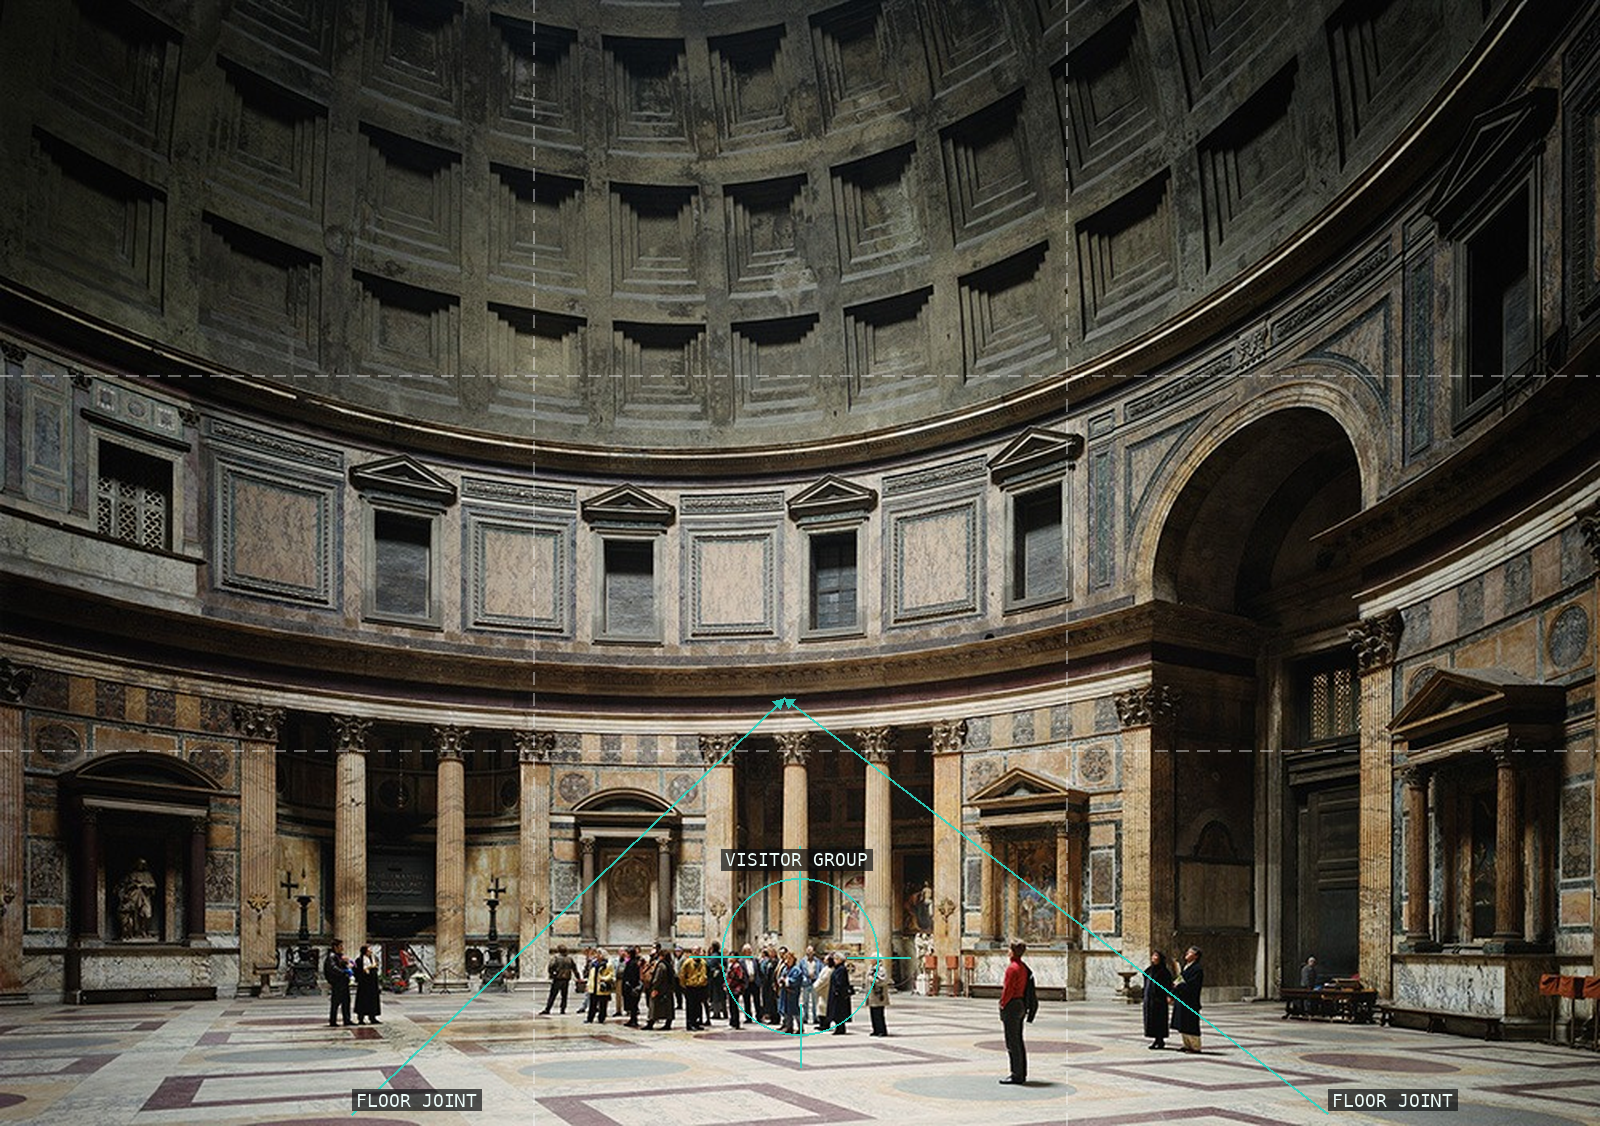
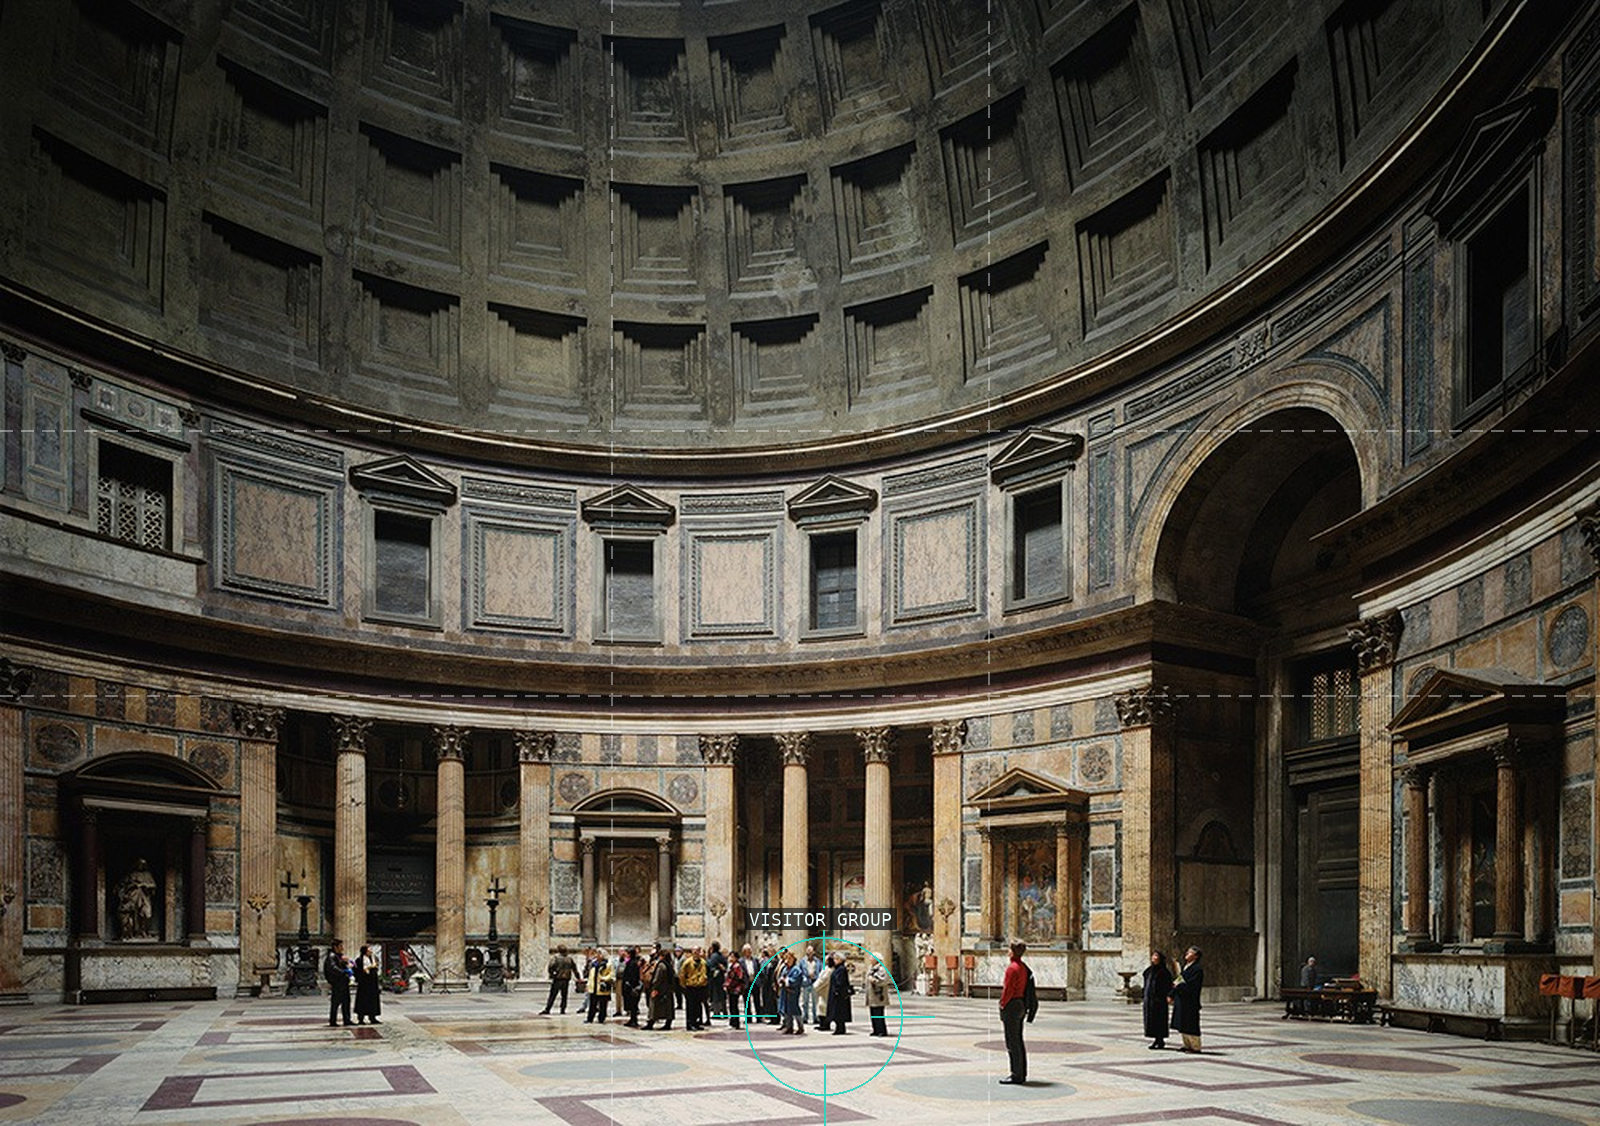
resolve critique: thomas-struth

diff --git a/content/thomas-struth/critique.md b/content/thomas-struth/critique.md
@@ -1,4 +1,4 @@
-verdict: revise
+verdict: resolved
 
 ## Critique round — 2026-07-25
 
@@ -39,3 +39,19 @@ historical capture evidence.
 - **10-x-ray-telescope-cast:** the straight `OVERHEAD CABLE` line follows the
   cable near its start but crosses unrelated apparatus toward the lower right.
   A segmented route or a shorter line would make the cue cleaner.
+
+## Resolution — 2026-07-25
+
+Re-verified prior critique round 2026-07-25 in full. For **04-pantheon-rome**,
+removed both misleading floor-joint routes, moved the visitor-group anchor to the
+measured subject signal, changed the grid to the measured phi fit, and revised
+the overlay note, plate caption, and chapter prose so they make no false
+convergence claim. The refreshed proof passes strict scoring at 100 and visually
+places the sole annotation on the visitor group.
+
+For **06-semi-submersible-rig**, removed the unsupported right-hand mooring-line
+primitive and revised the overlay note, plate caption, and prose to refer only to
+the one visibly traceable foreground cable. The refreshed proof passes strict
+scoring at 100 with no deductions or warnings. `scripts/check.sh` passed before
+this resolution was recorded, and the rendered chapter copy remains byte-identical
+to `content/thomas-struth/chapter.mdx`.
